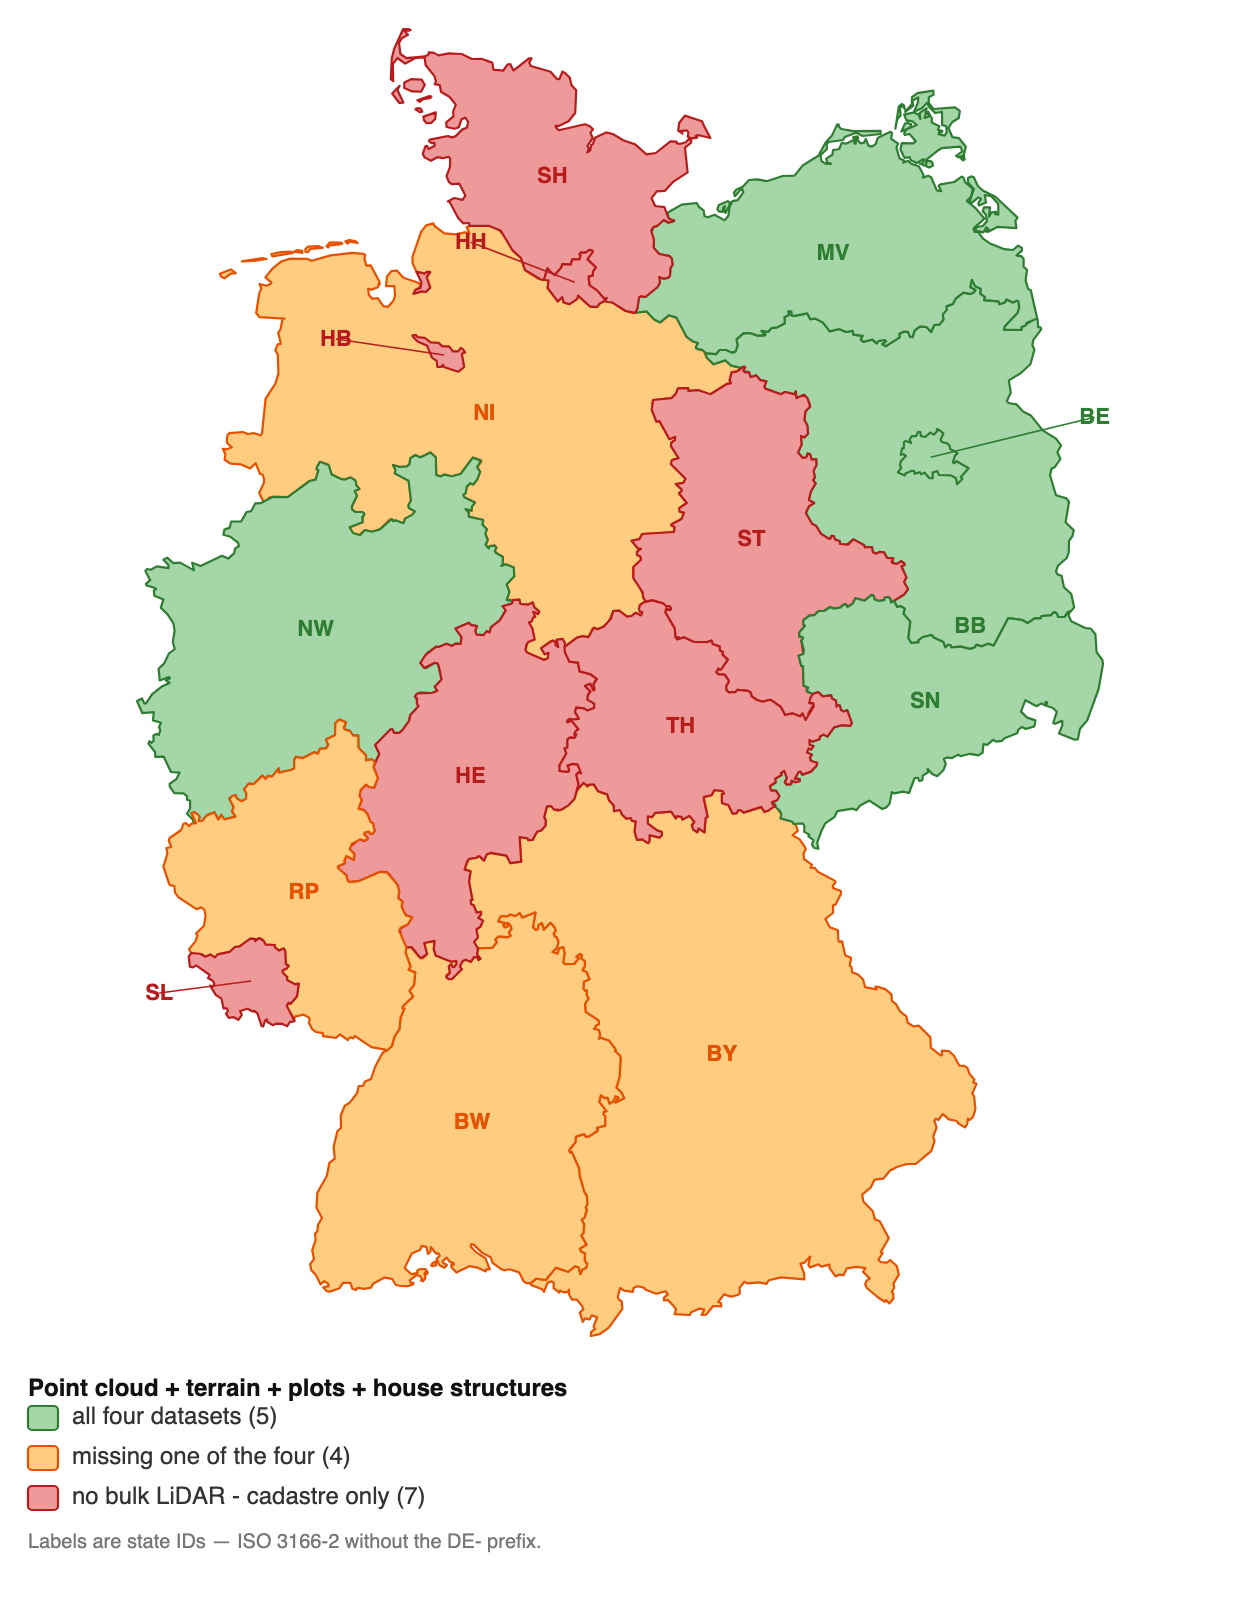
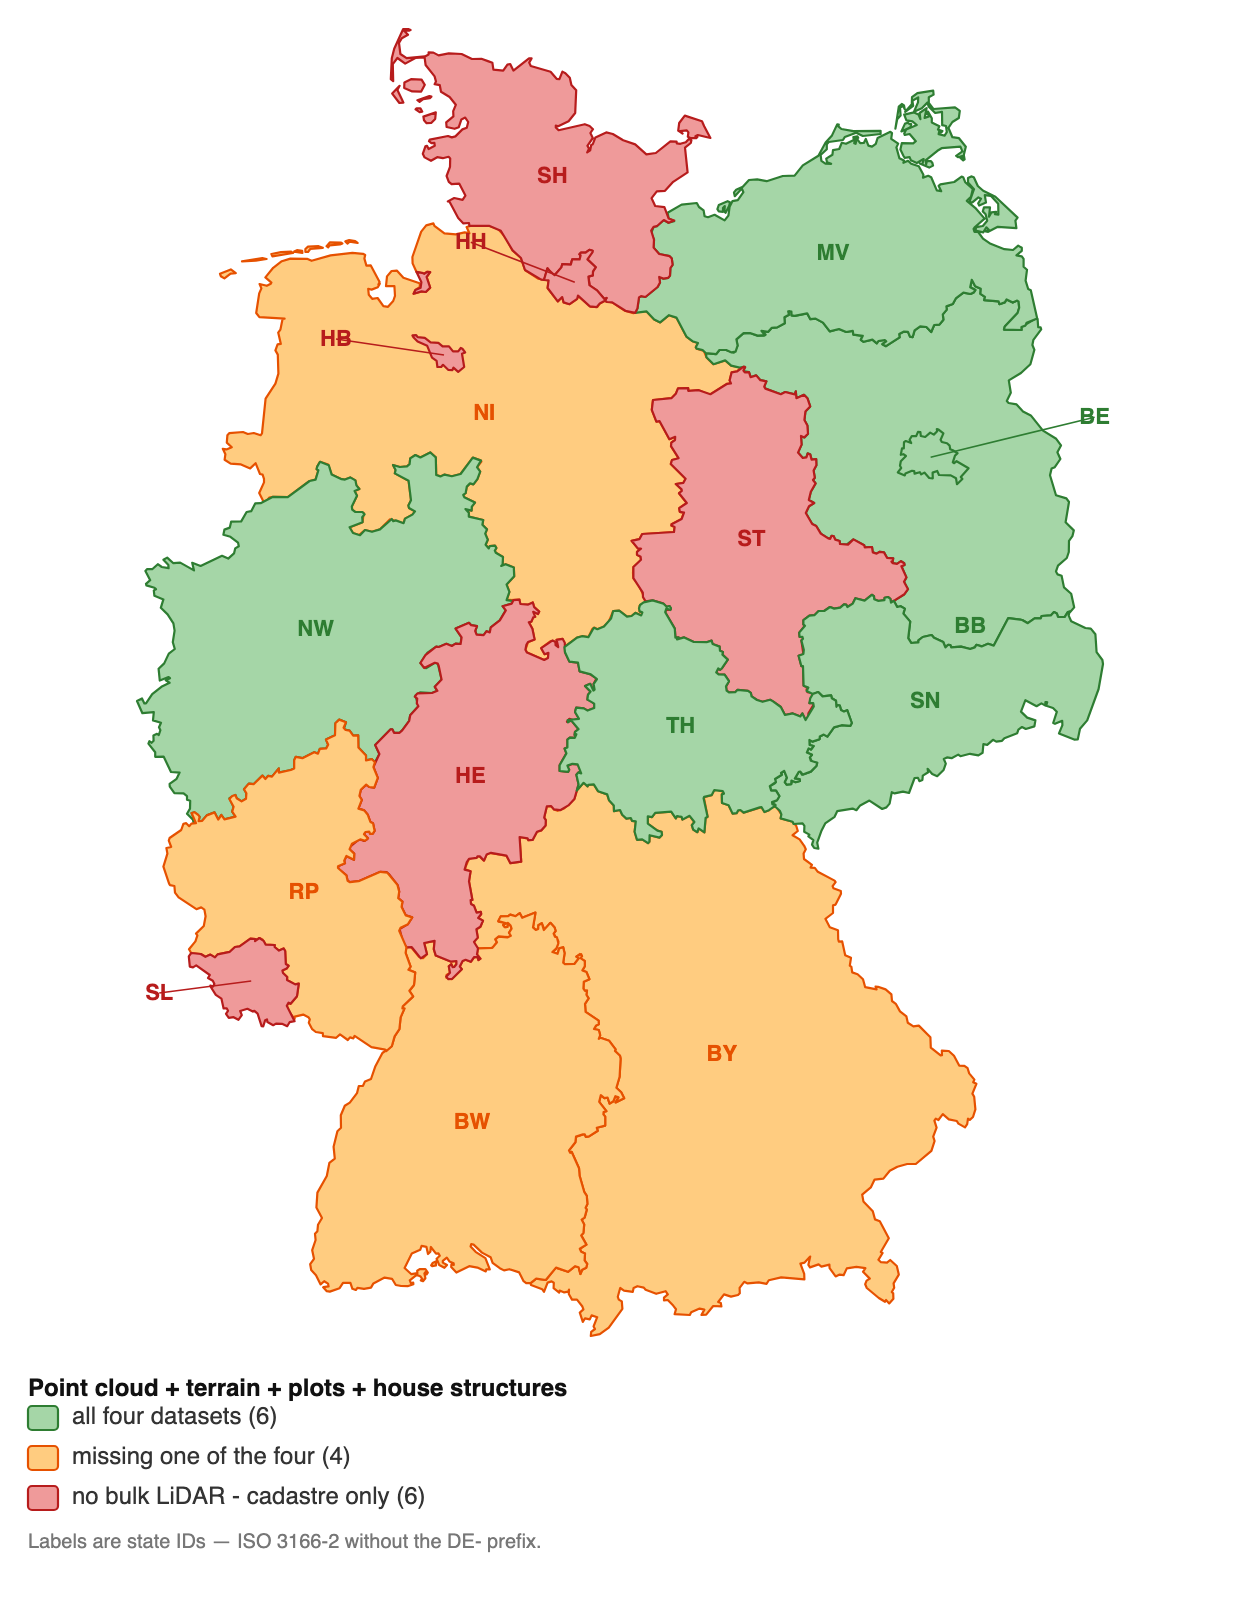
fix(coverage): Thüringen has all four datasets; regenerate the maps
Two inputs were wrong once download_th_lidar.sh existed.

lidar_script/lidar_bbox for th were null, which is what the maps colour by, so
TH stayed orange on a map about bulk access it now has.

HOUSES["th"] was False, justified in a comment by the standalone Hausumringe
product being CAPTCHA-gated and by th "landing red either way" for want of bulk
elevation. Footprints ship inside the per-Flur ALKIS package, which is exactly
what already counts as True for bb, sl, sh and hh — th was being judged by a
stricter rule than its neighbours, and the elevation half of the excuse is gone.
TH is now green on both maps: 6 states with all four datasets, 8 with point
cloud + terrain scripted.

Also corrects st's lidar_note, which still described the pre-download_st_lidar.sh
situation. st keeps lidar_script=None deliberately — it fetches two sample areas,
not a state — and that reasoning is now in a comment beside the entry.

The geojson diff carries an unrelated hunk: BKG has refreshed VG2500 since it was
last generated, so Bremen's coastline moved. That is upstream, not an edit.

Changed region(s): [[0.429, 0.375, 0.7048, 0.5312]]

diff --git a/bundeslaender_to_geojson.py b/bundeslaender_to_geojson.py
@@ -101,15 +101,18 @@ COVERAGE = {
                alkis="full", alkis_engine="aria2", alkis_spatial="package"),
     "st": dict(name_short="Sachsen-Anhalt",
                lidar_dgm1=True, lidar_las=True, lidar_script=None, lidar_bbox=None,
-               lidar_note="Open since 2023 including classified laser scan, but the advertised "
-                          "Atom endpoint was not locatable and the web UI caps selection at 5 tiles.",
+               # download_st_lidar.sh exists but stays lidar_script=None on purpose: it fetches
+               # the two published sample areas (~0.1% of the state), and this field feeds a map
+               # about bulk access to a whole state. See README, "Sachsen-Anhalt: samples, not a
+               # state".
+               lidar_note="Statewide 3D-Messdaten is priced and on request; only two sample "
+                          "areas are open (download_st_lidar.sh). DGM1 UI caps selection at 5 tiles.",
                # ALKIS-vereinfacht 2.0 over an anonymous WFS 2.0 (ST_LVermGeo_ALKIS_WFS_OpenData):
                # parcels, buildings and Nutzung, no Punktinformationen. Verified 2026-07-29.
                alkis="full", alkis_engine="wfs2", alkis_spatial="exact"),
     "th": dict(name_short="Thueringen",
-               lidar_dgm1=True, lidar_las=True, lidar_script=None, lidar_bbox=None,
-               lidar_note="gaialight app; overview.php/details.php need a 'type' key that is not "
-                          "derivable from the client config, and the public RSS is a change log.",
+               lidar_dgm1=True, lidar_las=True, lidar_script="download_th_lidar.sh",
+               lidar_bbox=True, lidar_note=None,
                alkis="full", alkis_engine="aria2", alkis_spatial="flur"),
 }
 

diff --git a/coverage_map.py b/coverage_map.py
@@ -76,11 +76,13 @@ HOUSES = {
     "sn": True,   # hu_sn_shape.zip (ranged GET -- the share 401s on HEAD)
     "st": True,   # Hausumringe.zip, direct; also ave:GebaeudeBauwerk in the ALKIS WFS
     "sh": True,   # inside the statewide ALKIS GeoJSON
-    "th": False,  # HU/HK are CAPTCHA-gated; ALKIS Shape/NAS is not, but see note below
+    "th": True,   # inside the per-Flur ALKIS Shape/NAS packages (standalone HU/HK are
+                  # CAPTCHA-gated, but that is a second route, not the only one)
 }
-# th is False on footprints only because the standalone HU product is CAPTCHA-gated. Its
-# ALKIS packages do carry AX_Gebaeude, so th is arguably 3/4 -- it lands red either way,
-# since it has no bulk elevation at all, which is the stronger constraint.
+# th used to be False here, justified by the standalone HU/HK products being CAPTCHA-gated and
+# by th landing red anyway for want of bulk elevation. Both halves are gone: download_th_lidar.sh
+# fetches the elevation, and "inside the ALKIS package" is exactly what already counts as True
+# for bb, sl, sh and hh. Judging th by a stricter rule than its neighbours was the bug.
 
 # (stroke, fill). Which tier gets which colour is a per-map decision -- see each map's legend
 # in MAPS below -- because "worst" is not the same question on every map.
